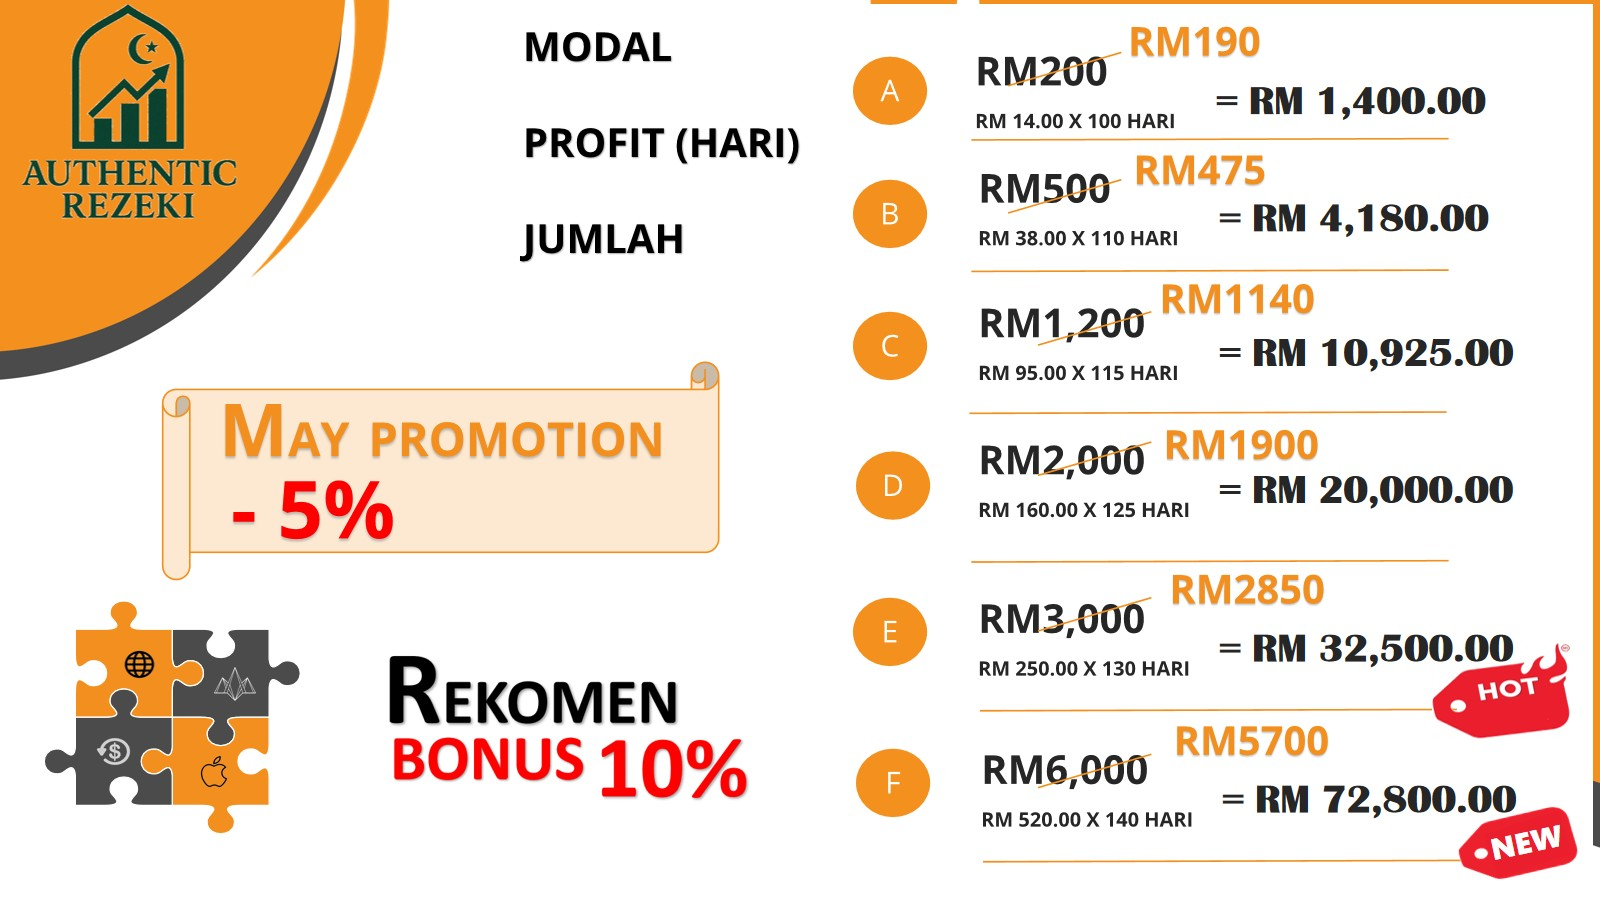
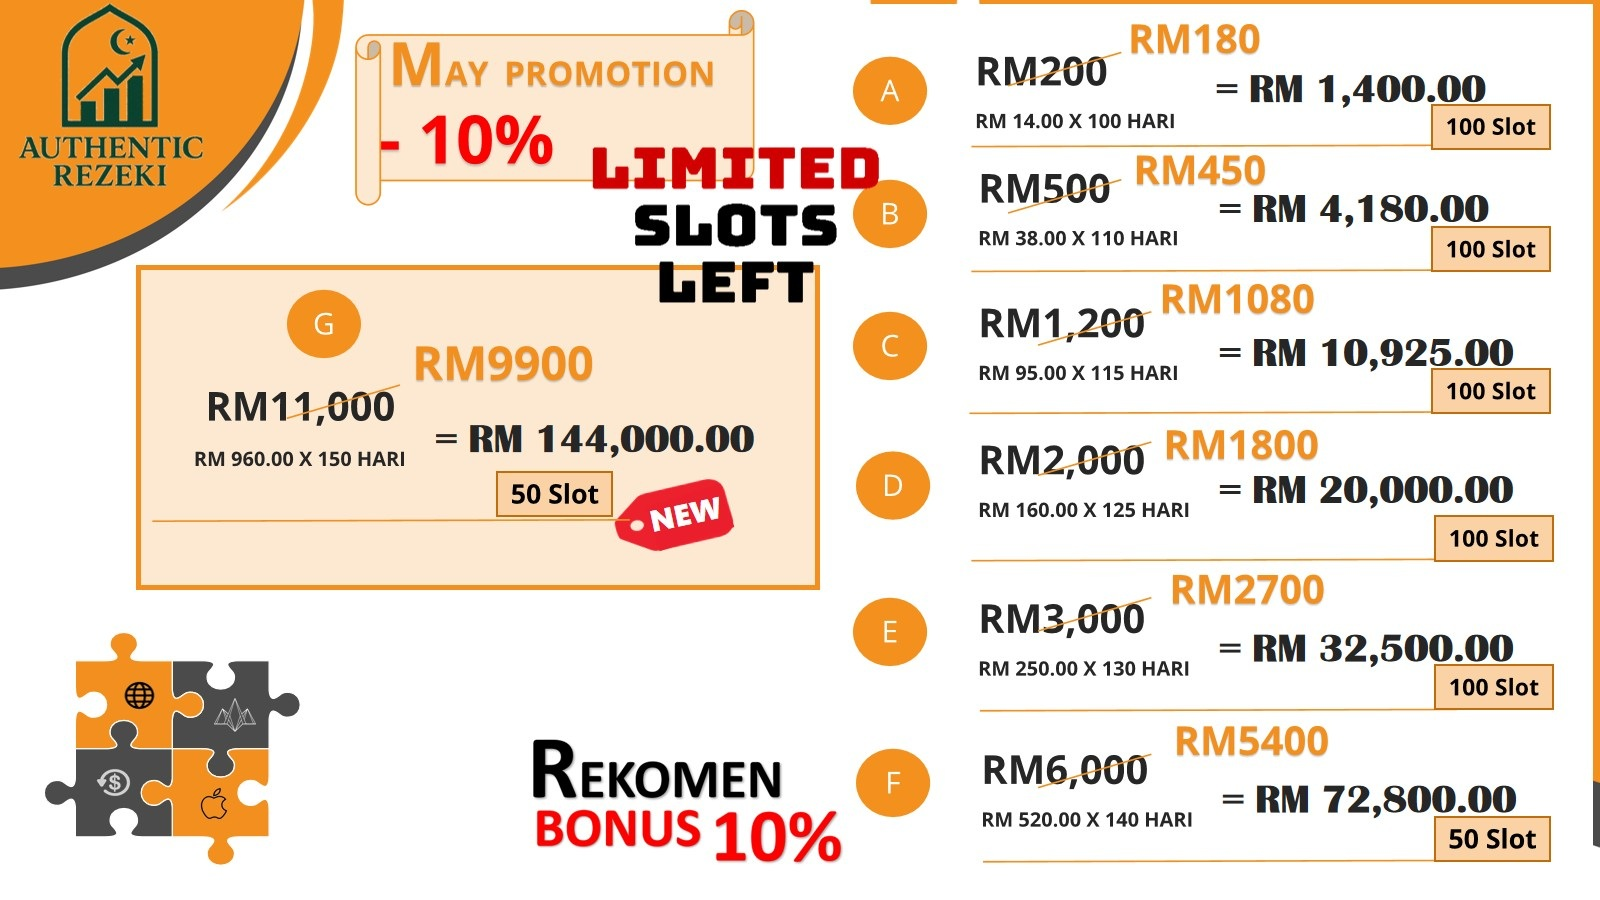
update plan G

diff --git a/plan.html b/plan.html
@@ -124,6 +124,11 @@
                 RM 520 x 140 hari = RM 72,800
             </div>
             
+            <div class="box center-text">
+                ♻ PLAN RM 11000 <br>
+                RM 960 x 150 hari = RM 144,000
+            </div>
+            
         </div>
 
     </section>
